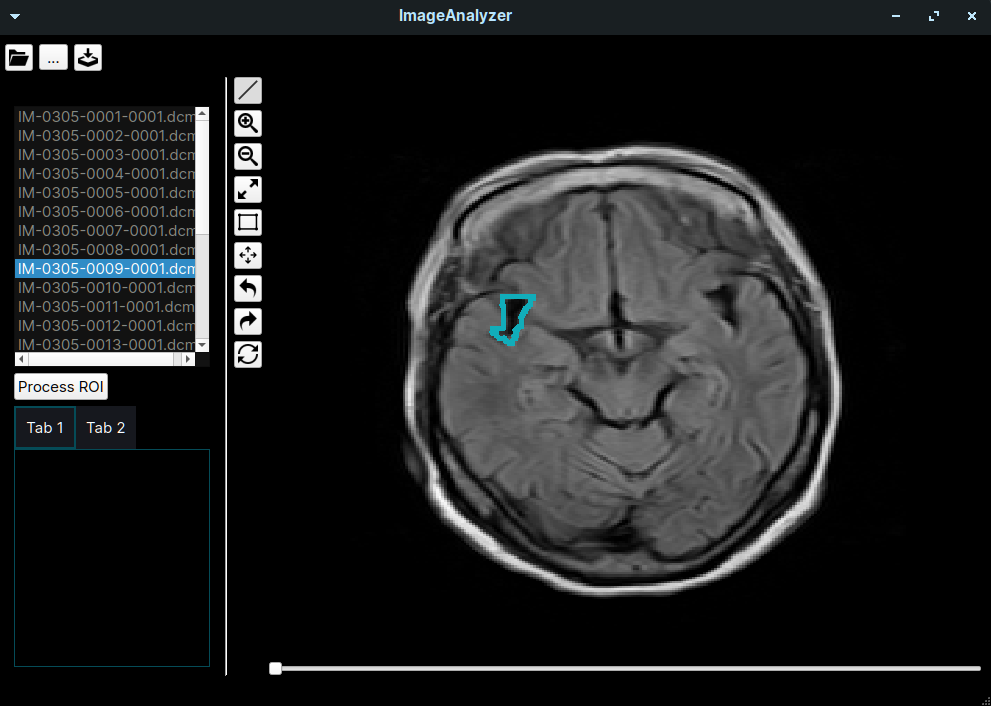
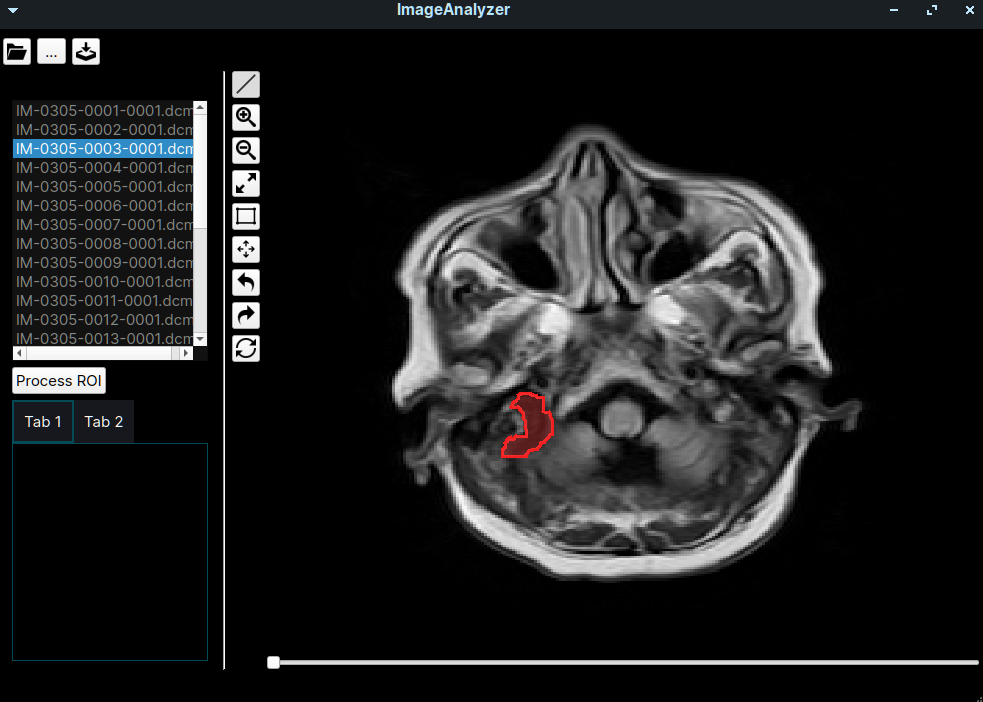
Some fixes with the pencilROI

diff --git a/Viewer.py b/Viewer.py
@@ -6,29 +6,28 @@ import pydicom
 import numpy as np
 import cv2
 import os 
-from contours import Contour
+from pencilROI import pencilROI
 
 class Viewer:
-    def __init__(self, qgraphics, seriesList):
+    def __init__(self, qgraphicsView, seriesList):
         self.scene = QGraphicsScene()
         self.seriesList = seriesList
-        self.drag = False
-        self.draw = False
-        self._zoom = 0
 
-        self._pixmapHandle = None
-
-        self.Image = qgraphics  
+        self.Image = qgraphicsView
         self.Image.setScene(self.scene)  
-        #self.Image.aspectRatioMode = Qt.KeepAspectRatio
         self.Image.setHorizontalScrollBarPolicy(Qt.ScrollBarAsNeeded)
         self.Image.setVerticalScrollBarPolicy(Qt.ScrollBarAsNeeded)
 
-        self.root = None
-        self.color = QColor(17, 173, 186)
-        self.pen = QPen(self.color, 5, Qt.SolidLine)
-        self.lastPoint = None
+        self.drag = False
+        self.draw = False
+        self._zoom = 0
+        self._pixmapHandle = None
 
+        self.root = None
+        self.color = QColor(245,30,30)
+        self.pen = QPen(self.color, 3, Qt.SolidLine)
+
+        self.lastPoint = None
         self.processedImage = None
         self.qpixmap = None
         self.imgArray = None
@@ -37,7 +36,7 @@ class Viewer:
         self._connectEvents()
         self.delta = None
 
-        self.lineOfPoints = Contour()
+        self.roi = pencilROI()
 
     def _connectEvents(self):
         self.Image.mousePressEvent = self.mousePressEvent
@@ -47,22 +46,23 @@ class Viewer:
         self.Image.wheelEvent = self.wheelEvent
 
     def fitInView(self):
-        rect = QRectF(self._pixmapHandle.pixmap().rect())
-        if not rect.isNull():
-            self.Image.setSceneRect(rect)
-            if self.hasImage():
-                unity = self.Image.transform().mapRect(QtCore.QRectF(0, 0, 1, 1))
-                self.Image.scale(1 / unity.width(), 1 / unity.height())
-                viewrect = self.Image.viewport().rect()
-                scenerect = self.Image.transform().mapRect(rect)
-                factor = min(viewrect.width() / scenerect.width(), viewrect.height() / scenerect.height())
-                self.Image.scale(factor, factor)
+        if self.hasImage():
+            rect = QRectF(self._pixmapHandle.pixmap().rect())
+            if not rect.isNull():
+                self.Image.setSceneRect(rect)
+                if self.hasImage():
+                    unity = self.Image.transform().mapRect(QtCore.QRectF(0, 0, 1, 1))
+                    self.Image.scale(1 / unity.width(), 1 / unity.height())
+                    viewrect = self.Image.viewport().rect()
+                    scenerect = self.Image.transform().mapRect(rect)
+                    factor = min(viewrect.width() / scenerect.width(), viewrect.height() / scenerect.height())
+                    self.Image.scale(factor, factor)
 
     def clear(self):
         """"""
         self.clearImage()
         self.chooseImage()
-        self.points = []
+        self.roi.clear()
 
     def hasImage(self):
         return self._pixmapHandle is not None
@@ -93,13 +93,11 @@ class Viewer:
         return None
 
     def getImageArray(self):
+        """Get the current Image Array
+        Returns:
+            imgArray: Numpy array
+        """
         return self.imgArray 
-
-    def updateView(self):
-        if not self.hasImage():
-            return 
-        self.Image.fitInView(self.Image.sceneRect(), Qt.KeepAspectRatio)
-
 
     def wheelEvent(self, event):
         factor = 1.25
@@ -132,9 +130,8 @@ class Viewer:
     def scale(self, factor):
         self.Image.scale(factor, factor)
 
-
     def resizeEvent(self, event):
-        pass
+        self.fitInView()
 
     def mousePressEvent(self, event):
         """ When the mouse is pressed  do this
@@ -146,33 +143,38 @@ class Viewer:
            if self.drag:
               self.Image.setDragMode(QGraphicsView.ScrollHandDrag)
         self.lastPoint = event.pos()
-        self.lineOfPoints.addPoint([event.pos().x(),event.pos().y()])
+        self.roi.addPoint([event.pos().x(),event.pos().y()])
+
         #Do whatever was on the default mousePressEvent fucntion of QgraphicsView object            
         QGraphicsView.mousePressEvent(self.Image, event)
 
     def mouseReleaseEvent(self, event):
-        self.lineOfPoints.addPoint([event.pos().x(),event.pos().y()])
+        self.roi.addPoint([event.pos().x(),event.pos().y()])
         pass
 
     def mouseMoveEvent(self, event):
         if self.draw:
             x, y = event.pos().x(), event.pos().y()
             if self.hasImage():
-                print("dibujando")
                 pixmap = self.getCurrentPixmap()
-                rect = QRectF(self._pixmapHandle.pixmap().rect())
                 painter = QPainter()
                 painter.begin(pixmap)
                 painter.setPen(self.pen)
                 painter.drawLine(self.lastPoint, event.pos())
                 painter.end()
-
-                self._pixmapHandle.setPixmap(pixmap)
-                self.fitInView()
+                self.setPixmap(pixmap)
                 self.lastPoint = event.pos()
 
-                self.lineOfPoints.addPoint([event.pos().x(), event.pos().y()])
+                self.roi.addPoint([event.pos().x(), event.pos().y()])
         QGraphicsView.mouseMoveEvent(self.Image, event)
+
+    def setPixmap(self, pixmap):
+        """Set a pixmap
+        Args:
+            pixmap: QPixmap
+        """
+        self._pixmapHandle.setPixmap(pixmap)
+        self.fitInView()
 
     def zoomPlus(self):
         print("zoom ++")
@@ -183,7 +185,6 @@ class Viewer:
     def resetZoom(self):
         self._zoom = 0
         if self.hasImage():
-           #self.Image.resetTransform()
            self.fitInView()
 
     def setDraw(self, draw):
@@ -211,9 +212,9 @@ class Viewer:
         item = self.seriesList.currentItem()
         img = self.readDicomImage(self.root + "/" + item.text())
         self.imgArray = img
-        self.displayImage(img)
+        self.setImage(img)
 
-    def displayImage(self, img):
+    def setImage(self, img):
         """Show image in the Graphic scene widget
         Args:
             img: numpy array
@@ -248,7 +249,6 @@ class Viewer:
         pixmap = QPixmap.fromImage(img).scaled(w-backlash, h-backlash, Qt.IgnoreAspectRatio)
         return pixmap
 
-
     def linearConvert(self, img):
     	"""Convert image
         Args:
@@ -261,7 +261,6 @@ class Viewer:
     	factor = 255/(np.max(img) - np.min(img))
     	new_img = factor*img - (factor*np.min(img))
     	return new_img	
-
 
     def readDicomImage(self, fname, copy=False):
         """read dicom image
@@ -287,27 +286,17 @@ class Viewer:
             self.seriesList.addItems(sorted(files))
 
     def processRoi(self):
-        #print(self.points)
-        #print(self.lineOfPoints.getPoints())
-        #point = np.array()
+        """Process ROI"""
         img = self.getImageArray()
         pixmap = self.getCurrentPixmap()
         qimage = self.getCurrentImage()
         w1, h1 = img.shape[0], img.shape[1]
         w2, h2 = pixmap.width(), pixmap.height()
-        #print(w1, h1)
-        #print(w2, h2)
         factorX = w2/w1
         factorY = h2/h1
-        #print(factorX, factorY)
-        self.lineOfPoints.scalePoints(factorX, factorY)
-        cnt = np.array([self.lineOfPoints.getPoints()])
-        img = cv2.drawContours(img, cnt, -1, (20,255,255), 1)
-        area = cv2.contourArea(cnt[0])
-        print("Area:  ",area)
-        #print("Area2: ",self.lineOfPoints.findArea())
-        #self.displayImage(img)
-        self.lineOfPoints.clear()
-        #
-        #self.displayImage(img)
-        #cv2.imwrite('lines.png', img)
+        cnt = self.roi.getContour()
+        pixmap = self.roi.paintROI(pixmap)
+        print("Area 1: ", cv2.contourArea(cnt))
+        self._pixmapHandle.setPixmap(pixmap)
+        self.fitInView()
+        self.roi.clear()

diff --git a/pencilROI.py b/pencilROI.py
@@ -1,0 +1,76 @@
+from PyQt5.QtGui import QPolygon, QPolygonF, QPainterPath, QPainter, QColor, QBrush
+from PyQt5.QtCore import QPoint, QPointF
+import numpy as np
+
+
+class pencilROI(object):
+	def __init__(self):
+		self.points = []
+		self.polygon = None
+		self.path = QPainterPath()
+		self.brush = QBrush()
+
+	def addPoint(self, point):
+		point = QPointF(*point)
+		self.points.append(point)
+		
+	def updatePolygon(self):
+		"""create a new polygon with the current list of point"""
+		if len(self.points)>1:
+			self.polygon = QPolygonF(self.points)
+
+	def getPoints(self):
+		return self.points
+
+	def scalePoints(self, factorX, factorY):
+		for i in range(len(self.points)):
+			self.points[i].setX(self.points[i].x()/factorX)
+			self.points[i].setY(self.points[i].y()/factorY)
+
+	def findArea(self):
+		""""""
+		area = 0
+		for i in range(len(self.points) - 1):
+			area+=self.points[i][0]*self.points[i+1][1] - self.points[i + 1][0] * self.points[i][1]
+		return abs(area/2)
+
+	def getContour(self):
+		"""Obtain list of points in contour format, based on opencv"""
+		contour = []
+		if self.hasPoints():
+			for point in self.points:
+				contour.append([point.x(),point.y()])
+		contour = np.around([contour]).astype(np.int32)
+		return contour
+
+	def hasPoints(self):
+		"""verifies if there are point"""
+		return len(self.points)>1
+
+	def isClosed(self):
+		if self.hasPoints():
+			L = len(self.points)
+			#Initial point
+			p0 = self.points[0] 
+			for i in range(L-1):
+				#Final point
+				pf = self.points[L - i - 1]
+				if p0 == pf:
+					return True
+		return False
+
+	def paintROI(self, pixmap):
+		self.updatePolygon()
+		brush = QBrush(QColor(235,70,70,90))
+		self.path.addPolygon(self.polygon)
+		painter = QPainter()
+		painter.begin(pixmap)
+		painter.fillPath(self.path, brush)
+		painter.end()
+		closed = self.isClosed()
+		return pixmap
+		
+	def clear(self):
+		self.points = []
+		self.polygon = None
+		self.path = QPainterPath()

diff --git a/main.py b/main.py
@@ -9,14 +9,6 @@ import sys, os, threading, re
 import numpy as np
 from Viewer import Viewer
 
-#/home/jason/Documentos/Python/TESIS/anonymize/Anonymized - 117/Encefalo/eFLAIR_longTR - 602/
-#Area
-#Glsm
-#
-
-#
-# Segmentación Manual
-# Segmentación Automática
 
 class App(QMainWindow):
 	def __init__(self):
@@ -37,7 +29,6 @@ class App(QMainWindow):
 		self.ui.toggle_move.toggled.connect(self.action_move)
 		self.ui.clear_all.clicked.connect(self.action_clear)
 		self.ui.viewsBtn.clicked.connect(self.action_views)
-
 		self.ui.process.clicked.connect(self.action_process)
 
 	def action_views(self):
